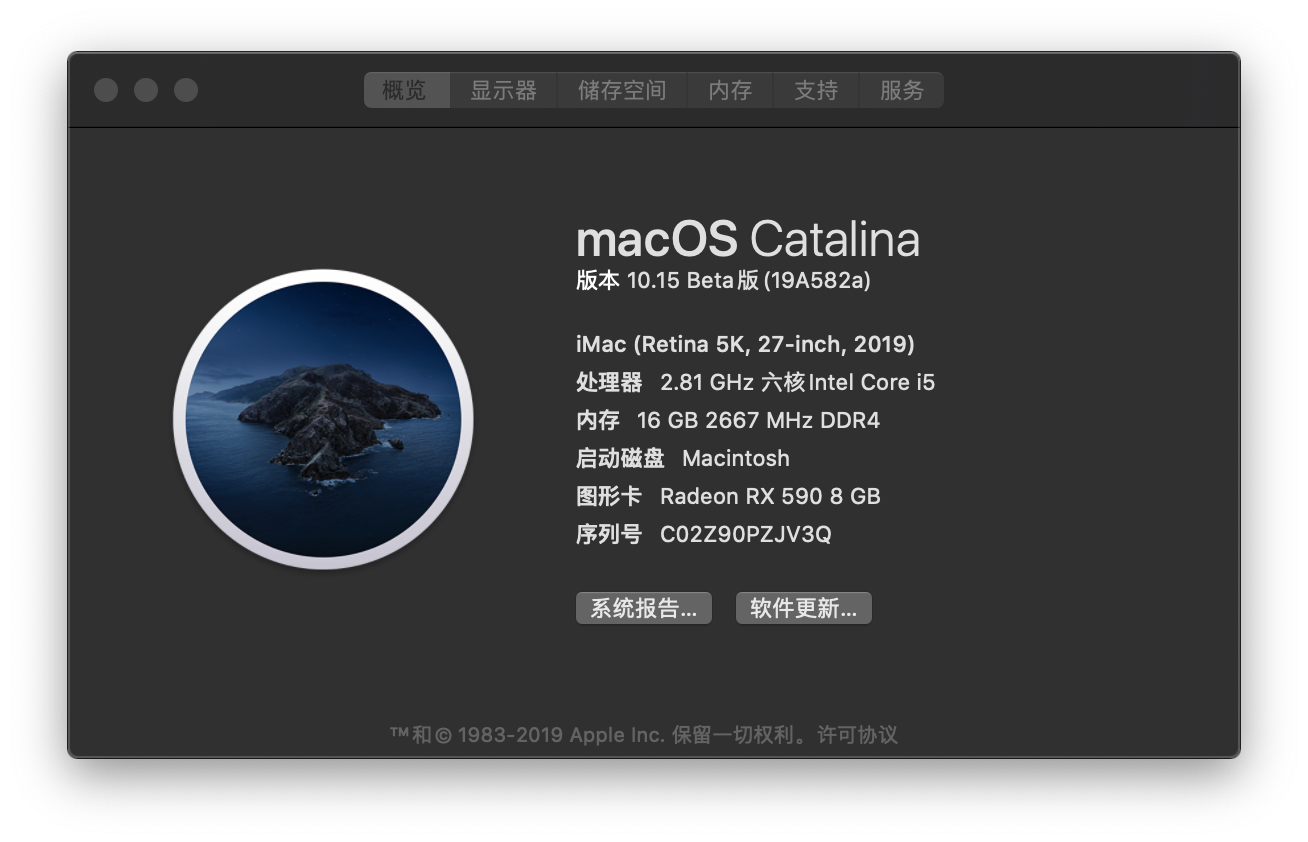
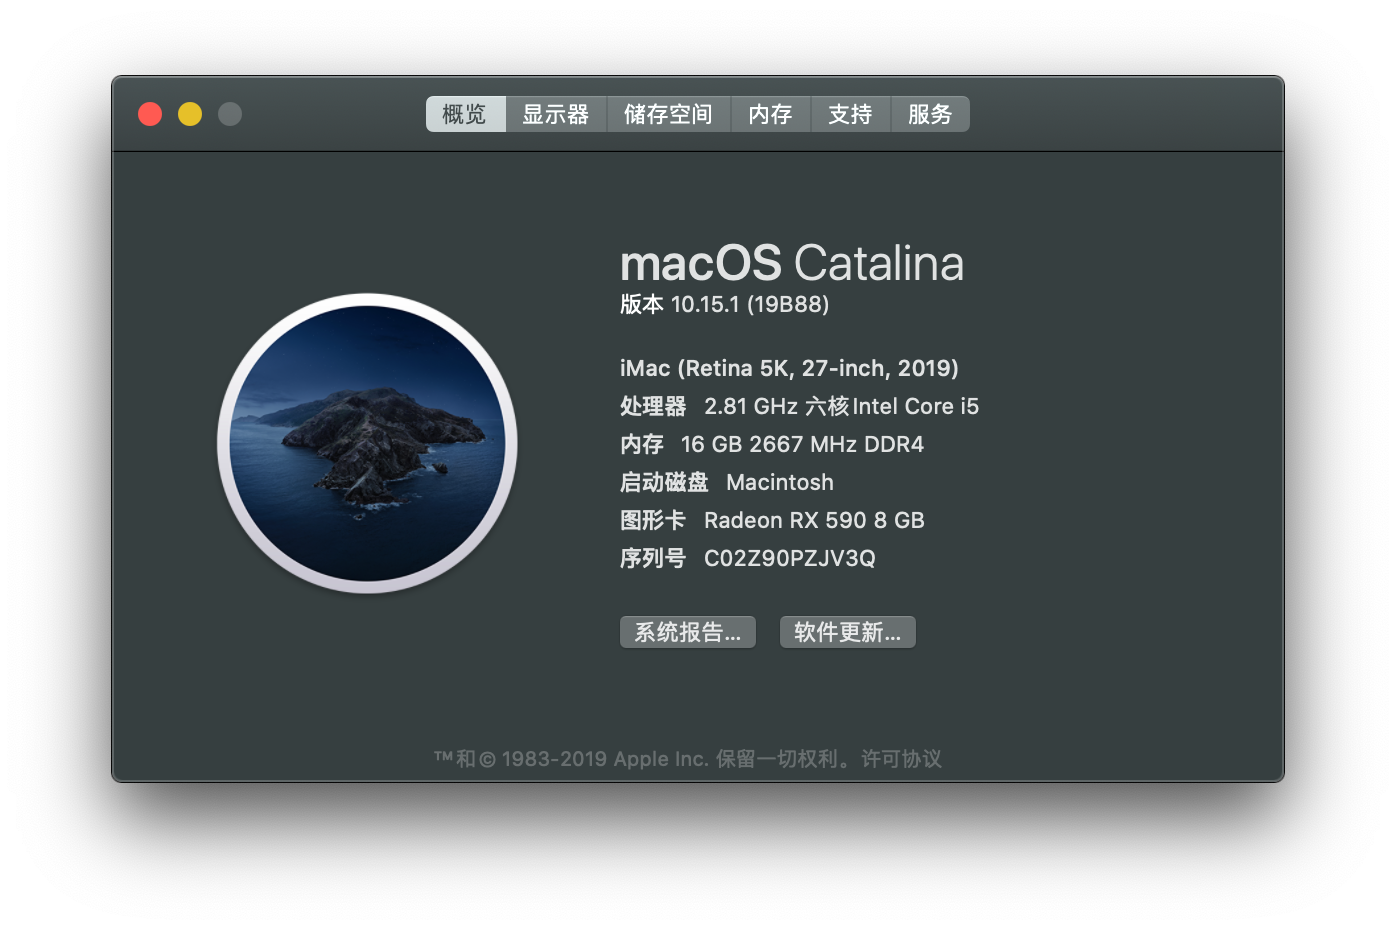
update 10.15.1

diff --git a/update.md b/update.md
@@ -1,5 +1,14 @@
 ## 更新日志
 
+### 2019-11-10
+
+>  升级到10.15.1(19B88)版本
+
++ Update `Clover` 5098
++ Update `Lilu` v1.3.9
++ Update `WhateverGreen` v1.3.4
++ Update `AppleALC` v1.4.3
+
 ### 2019-10-13
 
 > 升级到10.15(19A582a) beta版本，比正式版版本号高。从10.14.6直接升级上来，很稳定。
